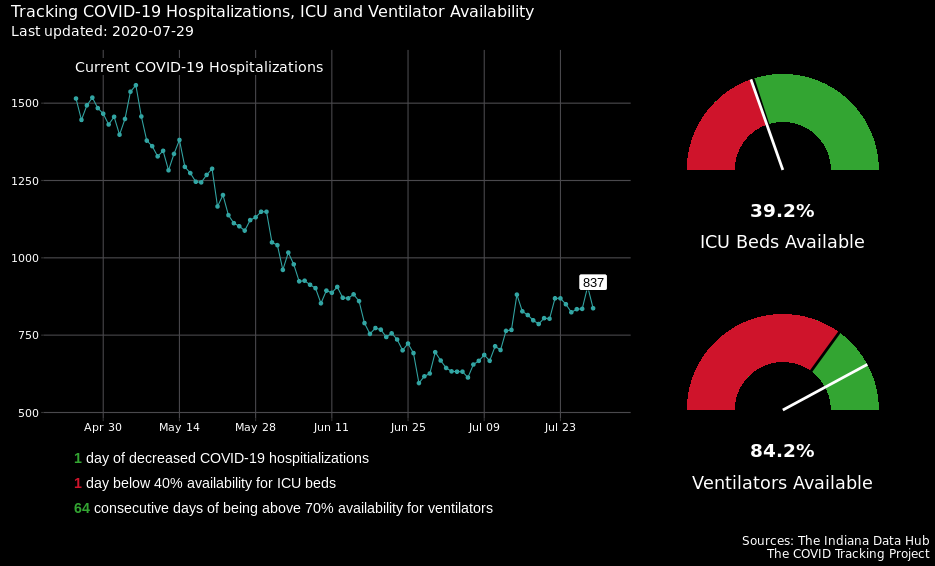
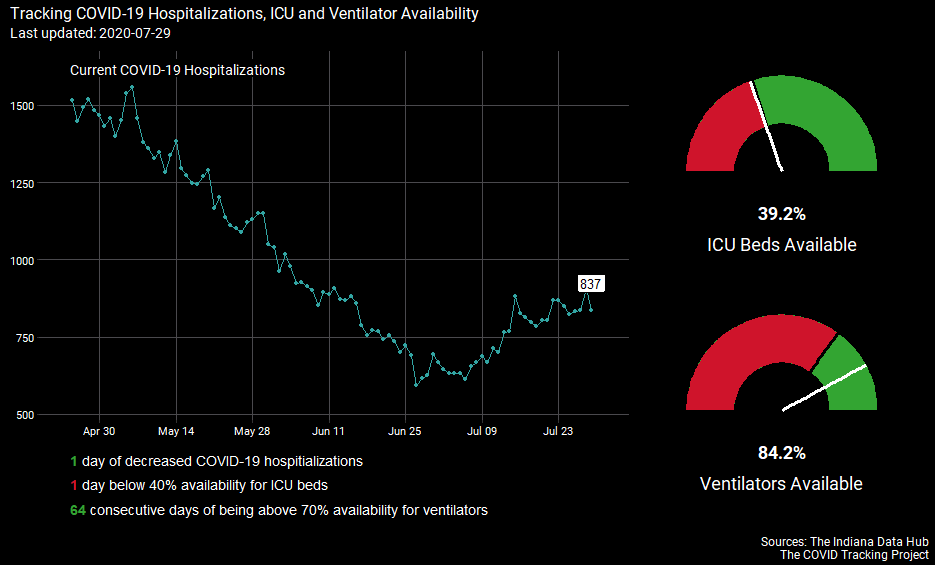
manual update of charts; gh actions failing at the moment

diff --git a/README.md b/README.md
@@ -29,7 +29,7 @@ also be trying to track some of the triggers in the AEI proposal and
 those from Governor Holcomb if any are presented.  
 <br /> <br /> <br />
 
-<img src="plots/ind-combo-line-2020-07-28.png" width="935" />
+<img src="plots/ind-combo-line-2020-07-29.png" width="935" />
 
   - Each point is the total cases that have accumulated until that date.
     The lines show the exponential nature of the spread of the virus at
@@ -43,7 +43,7 @@ those from Governor Holcomb if any are presented.
     situation, but it’s interesting as a hypothetical.  
     <br /> <br /> <br />
 
-<img src="plots/pos-policy-line-2020-07-28.png" width="935" />
+<img src="plots/pos-policy-line-2020-07-29.png" width="935" />
 
   - This chart shows the number of daily positive cases on the y-axis
     versus the cumulative total of positive cases on the x-axis.  
@@ -70,7 +70,7 @@ those from Governor Holcomb if any are presented.
         being below 70% for 14 consecutive days.  
         <br /> <br /> <br />
 
-<img src="plots/pos-rate-line-2020-07-27.png" width="935" />
+<img src="plots/pos-rate-line-2020-07-28.png" width="935" />
 
   - The Positive Test Rate is the number of positive test results
     divided by the number of tests administered over a period of time.
@@ -87,7 +87,7 @@ those from Governor Holcomb if any are presented.
     Project](https://covidtracking.com/data)  
     <br /> <br /> <br />
 
-<img src="plots/ot-rest-line-2020-07-28.png" width="935" />
+<img src="plots/ot-rest-line-2020-07-29.png" width="935" />
 
   - OpenTable is a service for reviewing and making reservations at
     restaurants. On its “The state of the restaurant industry”
@@ -128,9 +128,9 @@ those from Governor Holcomb if any are presented.
   - Weekends are shown as vertical bars.  
     <br /> <br /> <br />
 
-<img src="plots/region-dea-line-2020-07-28.png" width="935" />
+<img src="plots/region-dea-line-2020-07-29.png" width="935" />
 
-<img src="plots/region-pos-line-2020-07-28.png" width="935" />
+<img src="plots/region-pos-line-2020-07-29.png" width="935" />
 
   - The y-axis has been transformed to the logarithmic base-10 scale.
     Slopes and trends of straight(-ish) lines are easier to compare than
@@ -145,7 +145,7 @@ those from Governor Holcomb if any are presented.
     University.  
     <br /> <br /> <br />
 
-<img src="plots/county-pos-bar-2020-07-28.png" width="935" />
+<img src="plots/county-pos-bar-2020-07-29.png" width="935" />
 
   - The top 20 counties according to estimated average percent change
     are shown. Counties at the top are experiencing the highest average
@@ -161,9 +161,9 @@ those from Governor Holcomb if any are presented.
     estimate of the average number of people that an infected person is
     spreading the virus to for that time window.  
   - Estimates *slighly lower* than 1 indicate that the spread of the
-    virus is decreasing. Estimates *slightly larger* than 1 indicate a
-    slow spread of the virus. Estimates of *2 or greater* mean the virus
-    is spreading rapidly.  
+    virus is slowly decreasing. Estimates *slightly larger* than 1
+    indicate a slow increasing spread of the virus. Estimates of *2 or
+    greater* mean the virus is spreading rapidly.  
   - The shaded area shows the 80% credible interval where the true value
     is likely to be.
   - Further details on this metric can be found at a research
